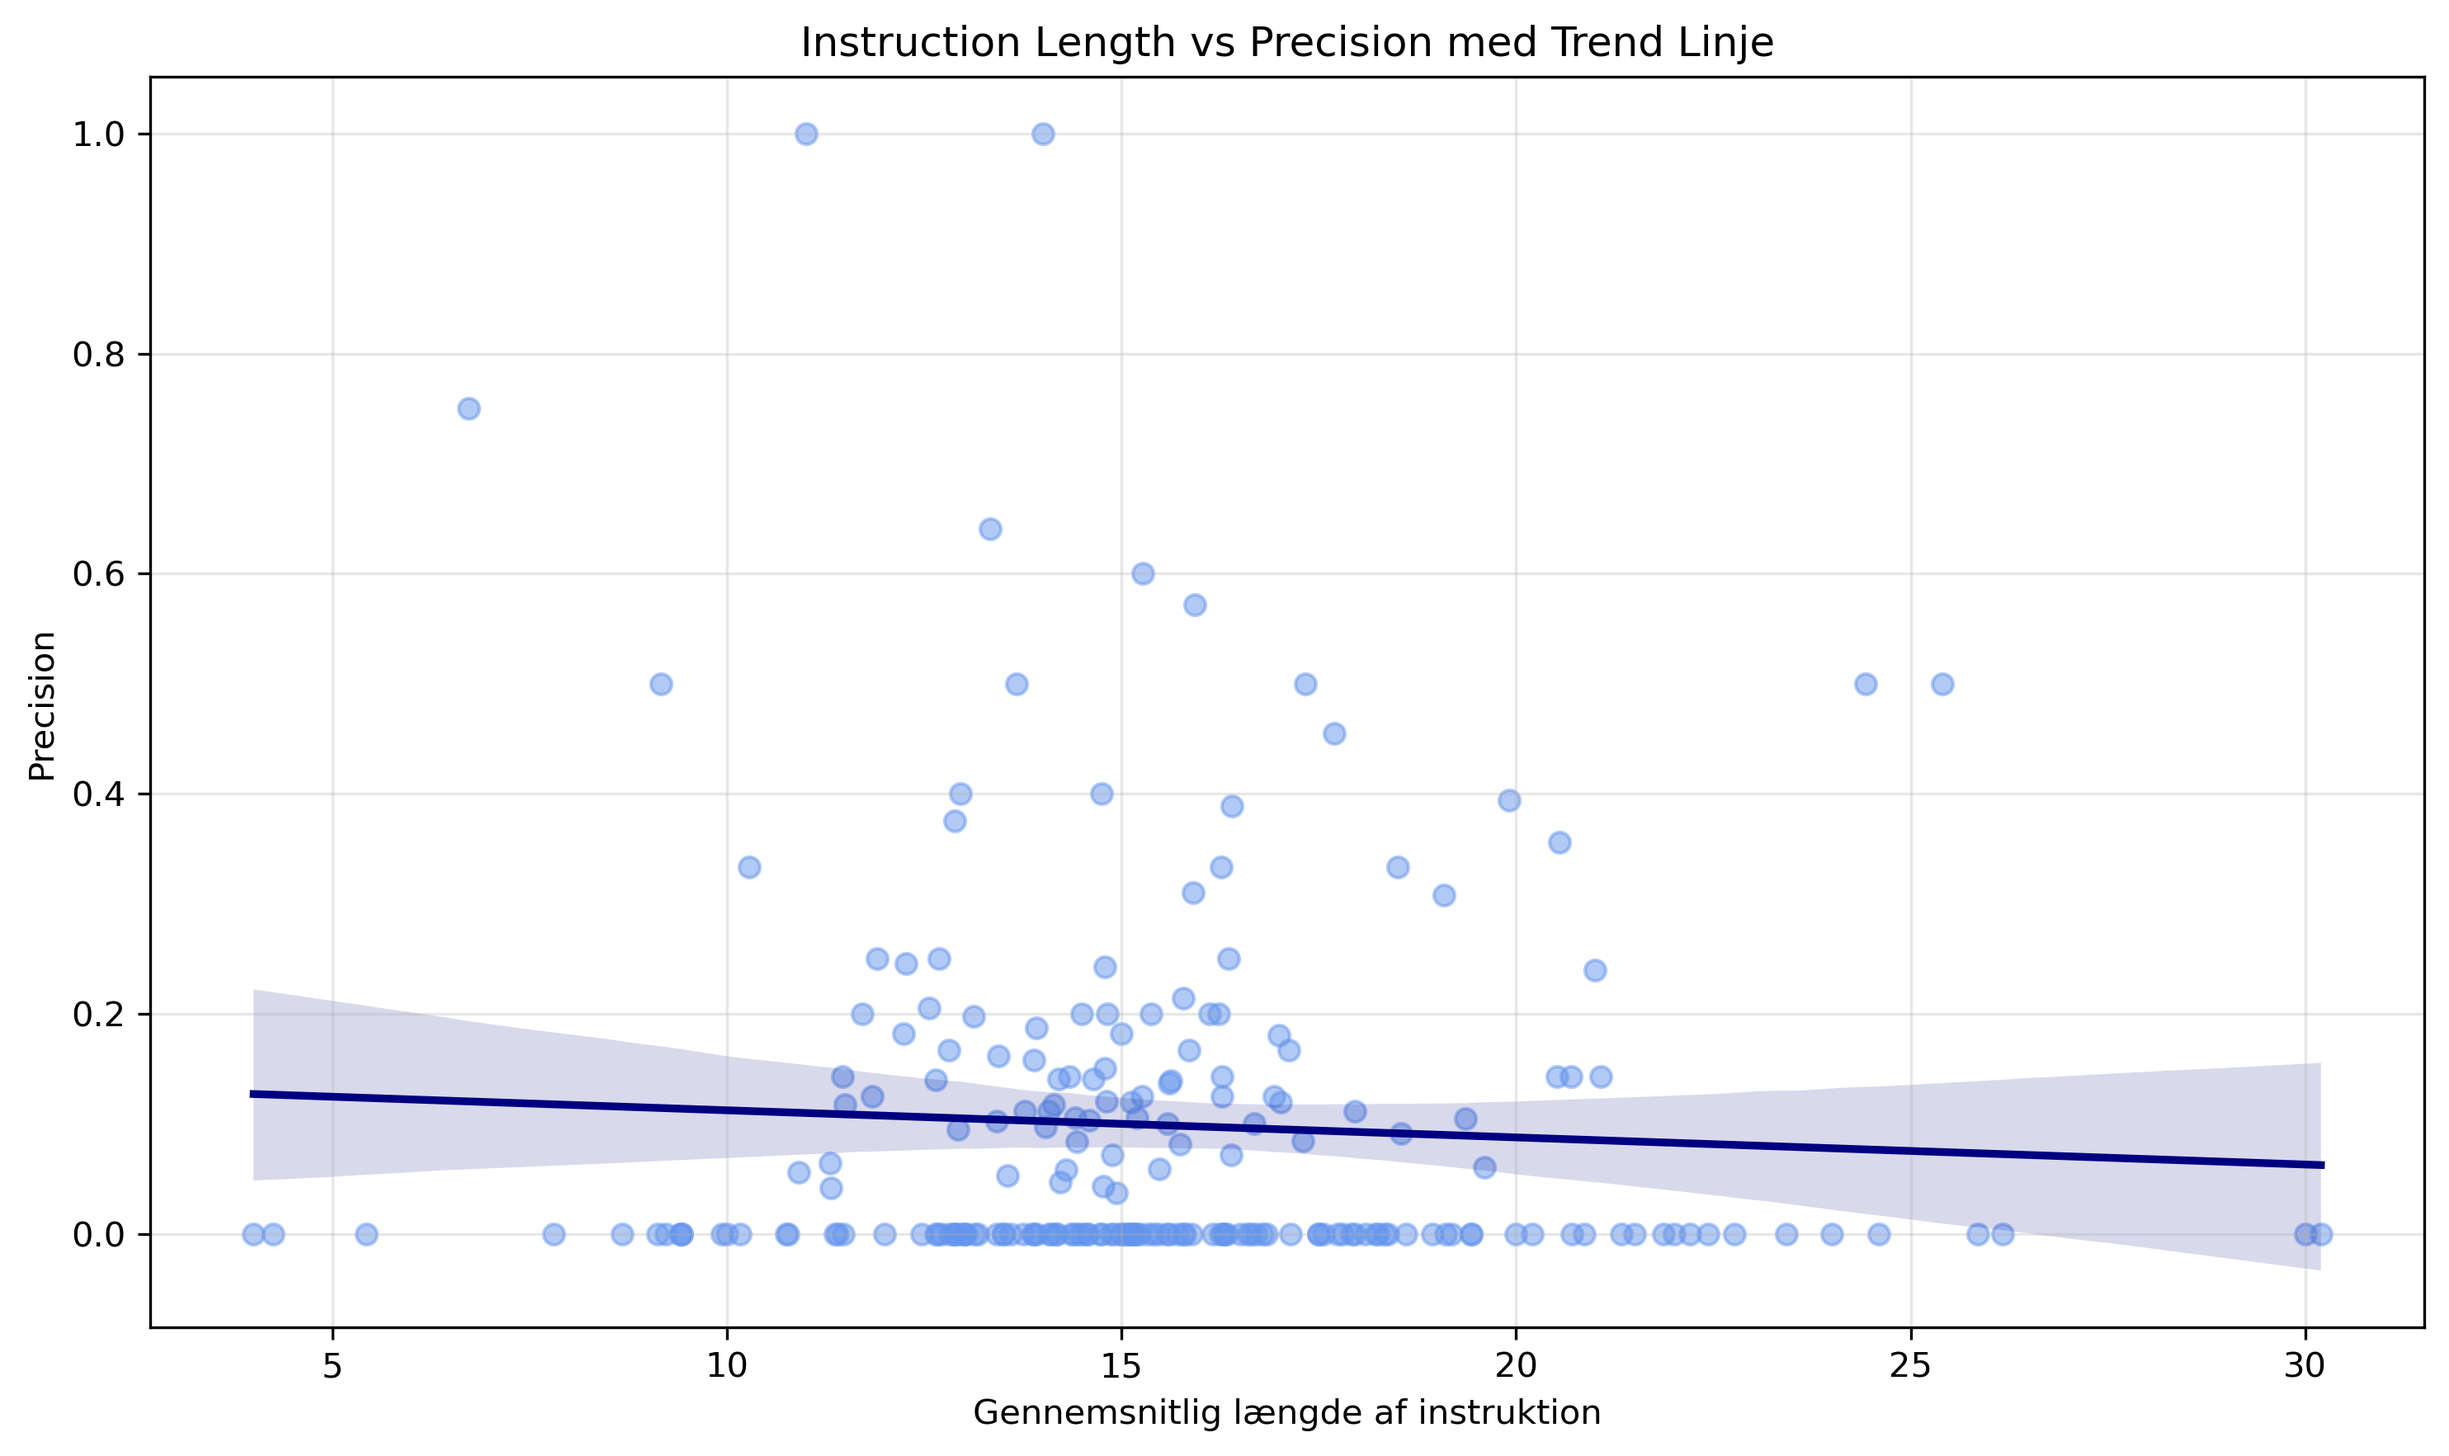
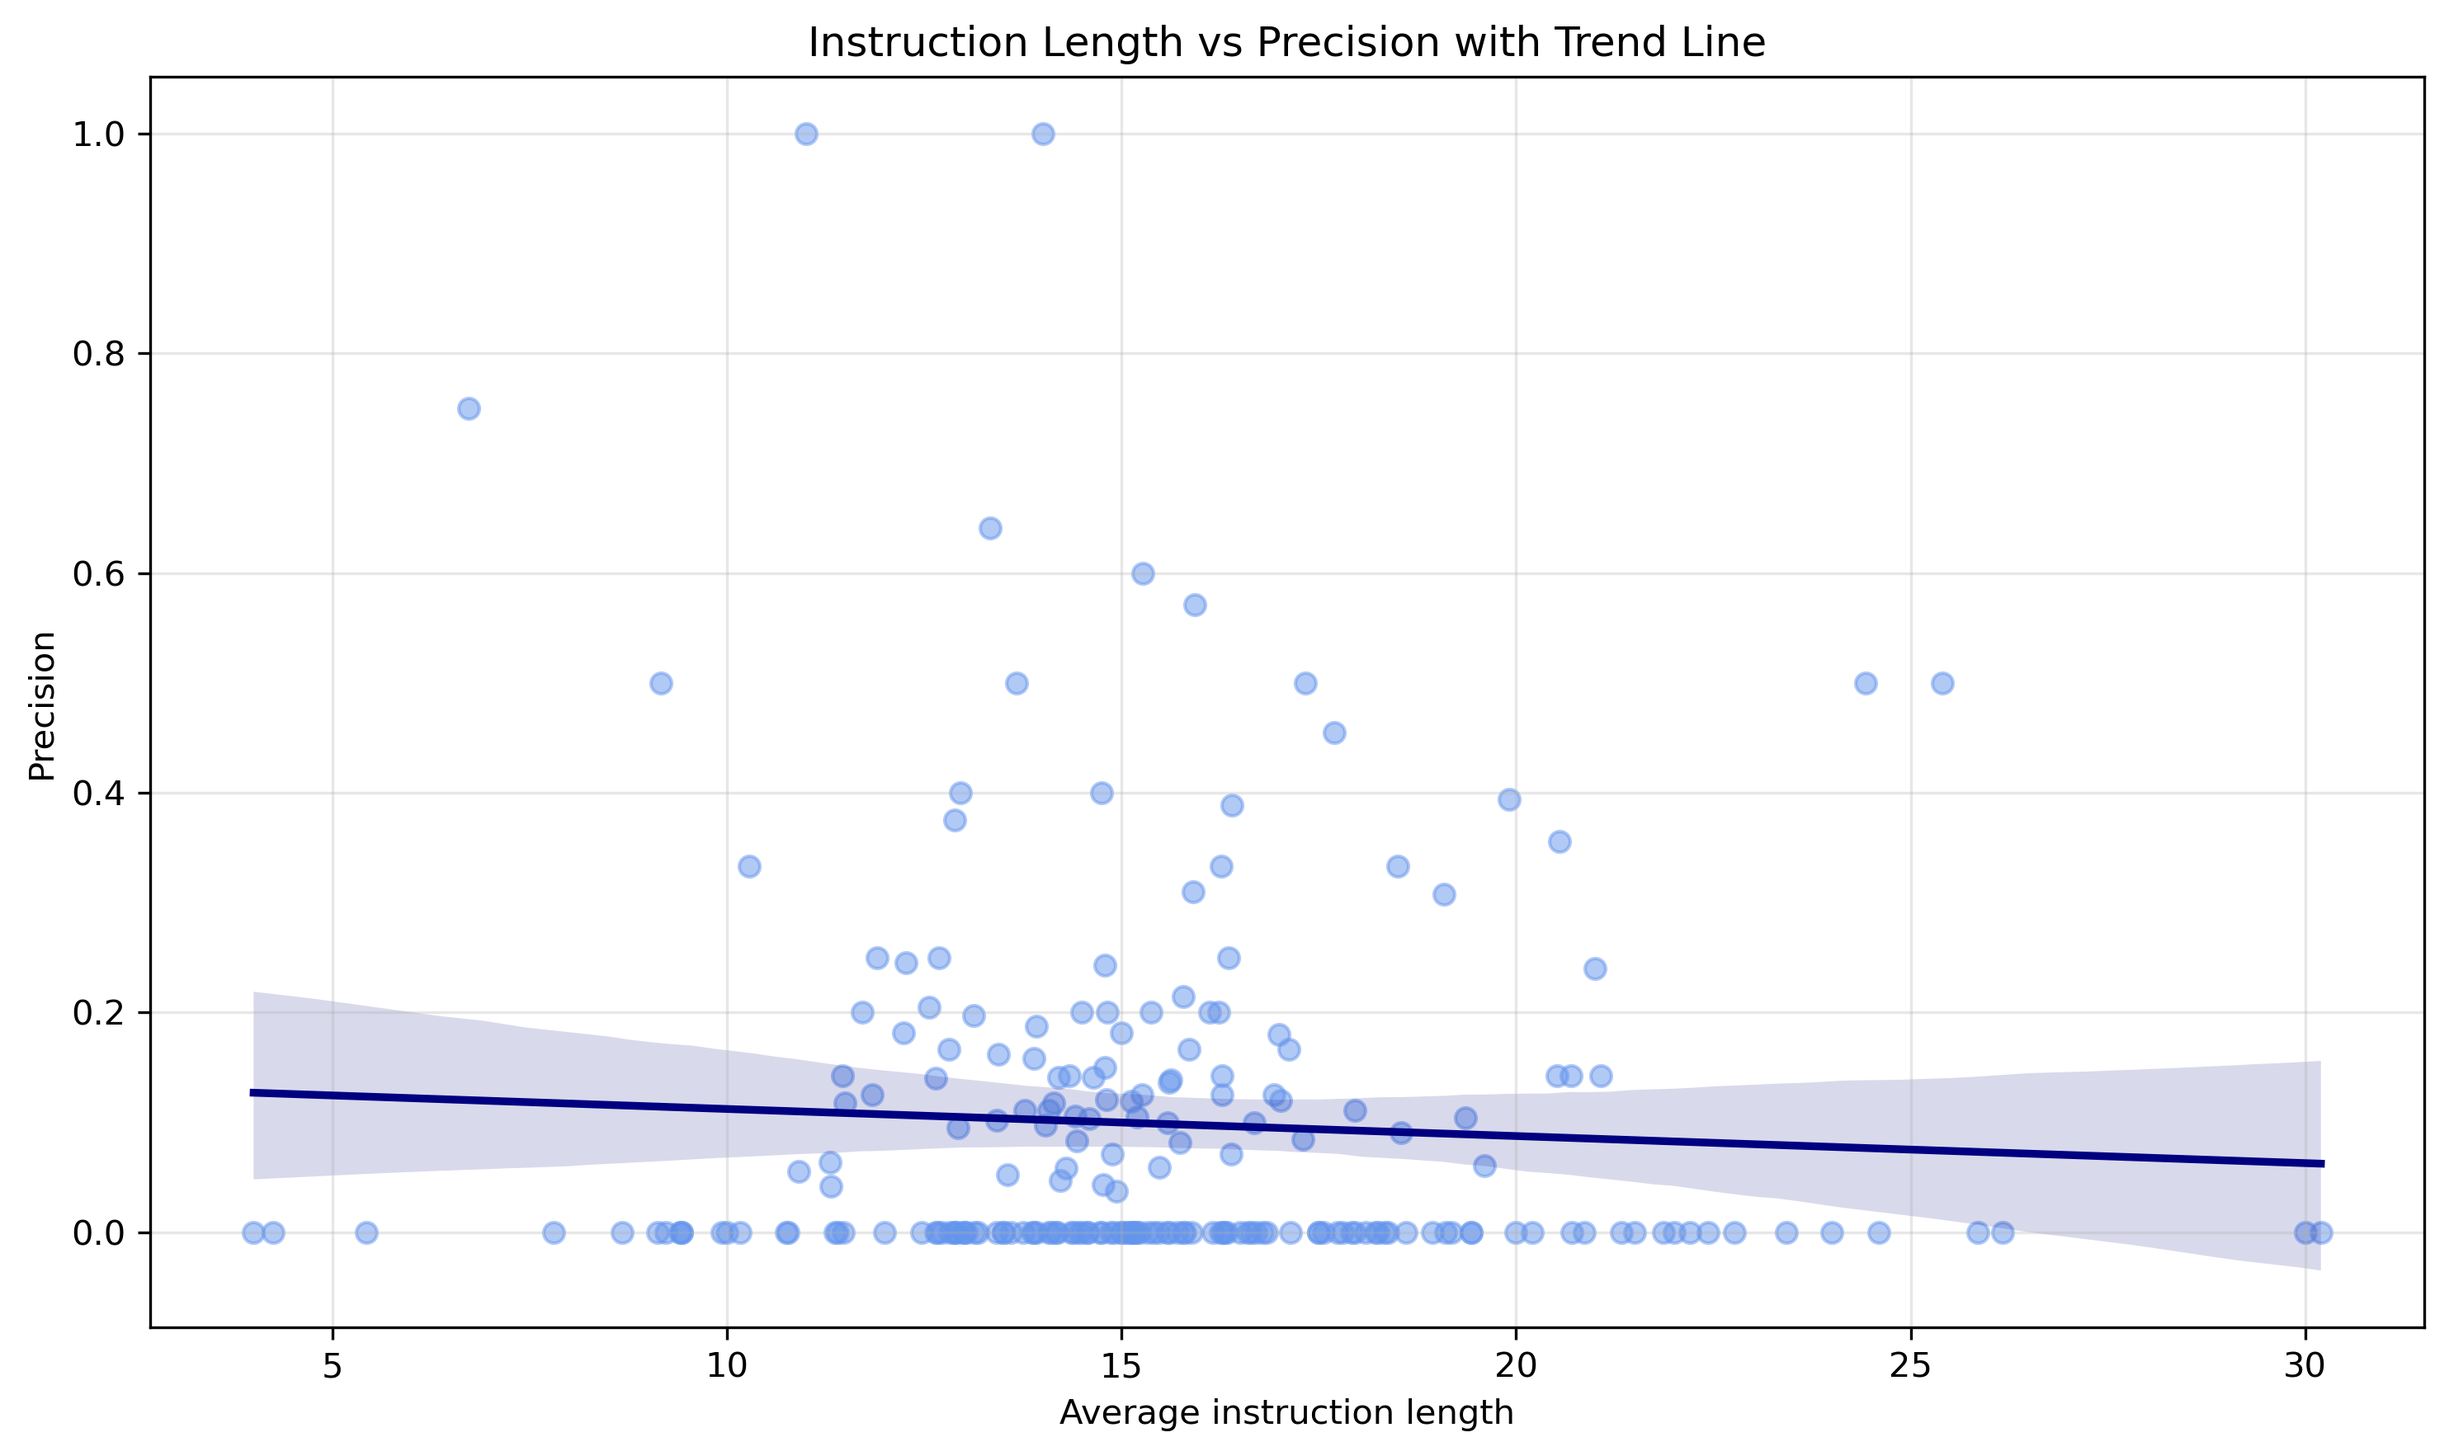
Refactor code structure for improved readability and maintainability

diff --git a/lanja_vis.py b/lanja_vis.py
@@ -11,18 +11,18 @@ df.columns = [col.strip().lower().replace(' ', '_') for col in df.columns]
 df['product_id'] = df['product_id_(product)_(product)'].apply(ast.literal_eval)
 df['quantity'] = df['quantity'].apply(ast.literal_eval)
 
-# Tjek om produkt-performance data findes, hvis ikke, kør test_testset maj 20.py først
+# Check if product performance data exists, if not, run test_testset maj 20.py first
 product_performance_path = "Dataset/product_performance.csv"
 if not os.path.exists(product_performance_path):
-    print("FEJL: Product performance data findes ikke.")
-    print("Kør 'python test_testset\\ maj\\ 20.py' først for at generere data.")
+    print("ERROR: Product performance data not found.")
+    print("Run 'python test_testset\\ maj\\ 20.py' first to generate the data.")
     exit(1)
 
-# Indlæs rigtig recall og precision data
+# Load recall and precision data
 product_perf = pd.read_csv(product_performance_path)
-print(f"Indlæst performance data for {len(product_perf)} produkter")
+print(f"Loaded performance data for {len(product_perf)} products")
 
-# Udvid datasættet: én række pr. produkt
+# Expand the dataset: one row per product
 rows = []
 for _, row in df.iterrows():
     for pid, qty in zip(row['product_id'], row['quantity']):
@@ -34,19 +34,19 @@ for _, row in df.iterrows():
         })
 df_expanded = pd.DataFrame(rows)
 
-# Slå recall og precision op fra performance data
+# Look up recall and precision from performance data
 product_lookup = product_perf.set_index('product_id').to_dict()
 df_expanded['recall'] = df_expanded['product_id'].map(product_lookup['recall'])
 df_expanded['precision'] = df_expanded['product_id'].map(product_lookup['precision'])
 
-# Håndter produkter der ikke har performance data (kan være i træningssæt men ikke i test)
+# Handle products that don't have performance data (might be in training set but not in test)
 missing_mask = df_expanded['recall'].isna()
 if missing_mask.any():
-    print(f"Bemærk: {missing_mask.sum()} forekomster mangler performance data")
+    print(f"Note: {missing_mask.sum()} occurrences are missing performance data")
     df_expanded = df_expanded.dropna(subset=['recall', 'precision'])
 
-# === VISUALISERING 1 ===
-# Scatterplot: antal forekomster vs recall
+# === VISUALIZATION 1 ===
+# Scatterplot: number of occurrences vs recall
 product_freq = df_expanded.groupby('product_id').size().reset_index(name='dataset_count')
 # Merge with product_perf, ensuring we don't lose the 'count' column from product_perf
 product_freq = product_freq.merge(product_perf, on='product_id', how='inner')
@@ -54,20 +54,20 @@ product_freq = product_freq.merge(product_perf, on='product_id', how='inner')
 plt.figure(figsize=(10, 6))
 sns.scatterplot(data=product_freq, x='count', y='recall', color='blue', alpha=0.7)
 plt.title('Recall vs. Product Frequency')
-plt.xlabel('Antal forekomster af produkt (ground truth)')
+plt.xlabel('Number of product occurrences (ground truth)')
 plt.ylabel('Recall')
 plt.grid(True, alpha=0.3)
 plt.tight_layout()
 plt.savefig('Visual/recall_vs_frequency_scatter.png', dpi=300, bbox_inches='tight')
 plt.close()
 
-# Tilføj trend linje
+# Add trend line
 plt.figure(figsize=(10, 6))
 sns.regplot(data=product_freq, x='count', y='recall', 
            scatter_kws={'alpha': 0.5, 'color': 'blue'}, 
            line_kws={'color': 'navy'})
-plt.title('Recall vs. Product Frequency med Trend Linje')
-plt.xlabel('Antal forekomster af produkt (ground truth)')
+plt.title('Recall vs. Product Frequency with Trend Line')
+plt.xlabel('Number of product occurrences (ground truth)')
 plt.ylabel('Recall')
 plt.grid(True, alpha=0.3)
 plt.tight_layout()
@@ -77,21 +77,21 @@ plt.close()
 
 plt.figure(figsize=(10, 6))
 sns.scatterplot(data=product_freq, x='count', y='precision', color='royalblue', alpha=0.7)
-plt.title('Precision vs. Product Frequency ')
-plt.xlabel('Antal forekomster af produkt (ground truth)')
+plt.title('Precision vs. Product Frequency')
+plt.xlabel('Number of product occurrences (ground truth)')
 plt.ylabel('Precision')
 plt.grid(True, alpha=0.3)
 plt.tight_layout()
 plt.savefig('Visual/precision_vs_frequency_scatter.png', dpi=300, bbox_inches='tight')
 plt.close()
 
-# Tilføj trend linje for precision
+# Add trend line for precision
 plt.figure(figsize=(10, 6))
 sns.regplot(data=product_freq, x='count', y='precision', 
            scatter_kws={'alpha': 0.5, 'color': 'steelblue'}, 
            line_kws={'color': 'navy'})
-plt.title('Precision vs. Product Frequency med Trend Linje')
-plt.xlabel('Antal forekomster af produkt (ground truth)')
+plt.title('Precision vs. Product Frequency with Trend Line')
+plt.xlabel('Number of product occurrences (ground truth)')
 plt.ylabel('Precision')
 plt.grid(True, alpha=0.3)
 plt.tight_layout()
@@ -99,8 +99,8 @@ plt.savefig('Visual/precision_vs_frequency_trend.png', dpi=300, bbox_inches='tig
 plt.close()
 
 
-# === VISUALISERING 2 ===
-# Instruction length pr. produkt_id vs recall OG precision
+# === VISUALIZATION 2 ===
+# Instruction length per product_id vs recall AND precision
 length_perf = df_expanded.groupby('product_id').agg({
     'instruction_length': 'mean',
     'recall': 'mean',
@@ -110,20 +110,20 @@ length_perf = df_expanded.groupby('product_id').agg({
 plt.figure(figsize=(10, 6))
 sns.scatterplot(data=length_perf, x='instruction_length', y='recall', color='blue', alpha=0.7)
 plt.title('Instruction Length vs Recall per Product')
-plt.xlabel('Gennemsnitlig længde af instruktion')
+plt.xlabel('Average instruction length')
 plt.ylabel('Recall')
 plt.grid(True, alpha=0.3)
 plt.tight_layout()
 plt.savefig('Visual/recall_vs_instruction_scatter.png', dpi=300, bbox_inches='tight')
 plt.close()
 
-# Tilføj trend linje
+# Add trend line
 plt.figure(figsize=(10, 6))
 sns.regplot(data=length_perf, x='instruction_length', y='recall', 
            scatter_kws={'alpha': 0.5, 'color': 'blue'}, 
            line_kws={'color': 'navy'})
-plt.title('Instruction Length vs Recall med Trend Linje')
-plt.xlabel('Gennemsnitlig længde af instruktion')
+plt.title('Instruction Length vs Recall with Trend Line')
+plt.xlabel('Average instruction length')
 plt.ylabel('Recall')
 plt.grid(True, alpha=0.3)
 plt.tight_layout()
@@ -134,20 +134,20 @@ plt.close()
 plt.figure(figsize=(10, 6))
 sns.scatterplot(data=length_perf, x='instruction_length', y='precision', color='cornflowerblue', alpha=0.7)
 plt.title('Instruction Length vs Precision per Product')
-plt.xlabel('Gennemsnitlig længde af instruktion')
+plt.xlabel('Average instruction length')
 plt.ylabel('Precision')
 plt.grid(True, alpha=0.3)
 plt.tight_layout()
 plt.savefig('Visual/precision_vs_instruction_scatter.png', dpi=300, bbox_inches='tight')
 plt.close()
 
-# Tilføj trend linje
+# Add trend line
 plt.figure(figsize=(10, 6))
 sns.regplot(data=length_perf, x='instruction_length', y='precision', 
            scatter_kws={'alpha': 0.5, 'color': 'cornflowerblue'}, 
            line_kws={'color': 'navy'})
-plt.title('Instruction Length vs Precision med Trend Linje')
-plt.xlabel('Gennemsnitlig længde af instruktion')
+plt.title('Instruction Length vs Precision with Trend Line')
+plt.xlabel('Average instruction length')
 plt.ylabel('Precision')
 plt.grid(True, alpha=0.3)
 plt.tight_layout()
@@ -155,14 +155,14 @@ plt.savefig('Visual/precision_vs_instruction_trend.png', dpi=300, bbox_inches='t
 plt.close()
 
 
-# === VISUALISERING 3 ===
-# Top 20 og bund 20 asset products baseret på recall
+# === VISUALIZATION 3 ===
+# Top 20 and bottom 20 asset products based on recall
 asset_perf = df_expanded.groupby('asset_product')['recall'].mean().reset_index()
 asset_counts = df_expanded.groupby('asset_product').size().reset_index(name='count')
 asset_perf = asset_perf.merge(asset_counts, on='asset_product')
 
-# Filtrer evt. for assets med tilstrækkeligt antal forekomster
-min_count = 5  # Minimum antal forekomster for at inkludere et asset
+# Filter for assets with sufficient number of occurrences
+min_count = 5  # Minimum number of occurrences to include an asset
 asset_perf_filtered = asset_perf[asset_perf['count'] >= min_count]
 
 top_20 = asset_perf_filtered.sort_values(by='recall', ascending=False).head(20)
@@ -171,9 +171,9 @@ bottom_20 = asset_perf_filtered.sort_values(by='recall', ascending=True).head(20
 plt.figure(figsize=(12, 10))
 bars = sns.barplot(data=top_20, x='recall', y='asset_product', hue='asset_product', palette='Blues_d', legend=False)
 plt.title('Top 20 Asset Products by Average Recall')
-plt.xlabel('Gennemsnitlig Recall')
+plt.xlabel('Average Recall')
 plt.ylabel('Asset Product')
-# Tilføj antal forekomster på hver bar
+# Add number of occurrences on each bar
 for i, row in enumerate(top_20.itertuples()):
     plt.text(0.01, i, f"n={row.count}", va='center')
 plt.tight_layout()
@@ -183,9 +183,9 @@ plt.close()
 plt.figure(figsize=(12, 10))
 bars = sns.barplot(data=bottom_20, x='recall', y='asset_product', hue='asset_product', palette='Blues', legend=False)
 plt.title('Bottom 20 Asset Products by Average Recall')
-plt.xlabel('Gennemsnitlig Recall')
+plt.xlabel('Average Recall')
 plt.ylabel('Asset Product')
-# Tilføj antal forekomster på hver bar
+# Add number of occurrences on each bar
 for i, row in enumerate(bottom_20.itertuples()):
     plt.text(0.01, i, f"n={row.count}", va='center')
 plt.tight_layout()
@@ -193,33 +193,33 @@ plt.savefig('Visual/bottom20_asset_recall.png', dpi=300, bbox_inches='tight')
 plt.close()
 
 
-# === EKSTRA VISUALISERING ===
-# F1-score beregning og visualisering
+# === EXTRA VISUALIZATION ===
+# F1-score calculation and visualization
 product_freq['f1'] = 2 * (product_freq['precision'] * product_freq['recall']) / (product_freq['precision'] + product_freq['recall'])
 
 plt.figure(figsize=(10, 6))
 sns.regplot(data=product_freq, x='count', y='f1', 
            scatter_kws={'alpha': 0.6, 'color': 'mediumblue'}, 
            line_kws={'color': 'navy'})
-plt.title('F1-Score vs. Product Frequency med Trend Linje')
-plt.xlabel('Antal forekomster af produkt (ground truth)')
+plt.title('F1-Score vs. Product Frequency with Trend Line')
+plt.xlabel('Number of product occurrences (ground truth)')
 plt.ylabel('F1-Score')
 plt.grid(True, alpha=0.3)
 plt.tight_layout()
 plt.savefig('Visual/f1_vs_frequency.png', dpi=300, bbox_inches='tight')
 plt.close()
 
-# Gem alle visualiseringer til filer
-print("\nGemmer visualiseringer til Visual mappe...")
+# Save all visualizations to files
+print("\nSaving visualizations to Visual folder...")
 
-# Vi har allerede gemt visualiseringerne ovenfor, så denne sektion er ikke længere nødvendig
-# Men vi beholder filnavnene for kompatibilitet
+# We've already saved the visualizations above, so this section is no longer necessary
+# But we keep the filenames for compatibility
 plt.figure(figsize=(10, 6))
 sns.regplot(data=product_freq, x='count', y='recall', 
            scatter_kws={'alpha': 0.5, 'color': 'blue'}, 
            line_kws={'color': 'navy'})
-plt.title('Recall vs. Product Frequency med Trend Linje')
-plt.xlabel('Antal forekomster af produkt (ground truth)')
+plt.title('Recall vs. Product Frequency with Trend Line')
+plt.xlabel('Number of product occurrences (ground truth)')
 plt.ylabel('Recall')
 plt.grid(True, alpha=0.3)
 plt.tight_layout()
@@ -231,21 +231,21 @@ plt.figure(figsize=(10, 6))
 sns.regplot(data=product_freq, x='count', y='precision', 
            scatter_kws={'alpha': 0.5, 'color': 'steelblue'}, 
            line_kws={'color': 'navy'})
-plt.title('Precision vs. Product Frequency med Trend Linje')
-plt.xlabel('Antal forekomster af produkt (ground truth)')
+plt.title('Precision vs. Product Frequency with Trend Line')
+plt.xlabel('Number of product occurrences (ground truth)')
 plt.ylabel('Precision')
 plt.grid(True, alpha=0.3)
 plt.tight_layout()
 plt.savefig('Visual/precision_vs_frequency.png', dpi=300, bbox_inches='tight')
 plt.close()
 
-# Gem også med oprindelige filnavne for kompatibilitet
+# Also save with original filenames for compatibility
 plt.figure(figsize=(10, 6))
 sns.regplot(data=length_perf, x='instruction_length', y='recall', 
            scatter_kws={'alpha': 0.5, 'color': 'blue'}, 
            line_kws={'color': 'navy'})
-plt.title('Instruction Length vs Recall med Trend Linje')
-plt.xlabel('Gennemsnitlig længde af instruktion')
+plt.title('Instruction Length vs Recall with Trend Line')
+plt.xlabel('Average instruction length')
 plt.ylabel('Recall')
 plt.grid(True, alpha=0.3)
 plt.tight_layout()
@@ -256,12 +256,12 @@ plt.figure(figsize=(10, 6))
 sns.regplot(data=length_perf, x='instruction_length', y='precision', 
            scatter_kws={'alpha': 0.5, 'color': 'cornflowerblue'}, 
            line_kws={'color': 'navy'})
-plt.title('Instruction Length vs Precision med Trend Linje')
-plt.xlabel('Gennemsnitlig længde af instruktion')
+plt.title('Instruction Length vs Precision with Trend Line')
+plt.xlabel('Average instruction length')
 plt.ylabel('Precision')
 plt.grid(True, alpha=0.3)
 plt.tight_layout()
 plt.savefig('Visual/precision_vs_instruction_length.png', dpi=300, bbox_inches='tight')
 plt.close()
 
-print("Alle visualiseringer er gemt i Visual mappen.")
+print("All visualizations saved to the Visual folder.")
